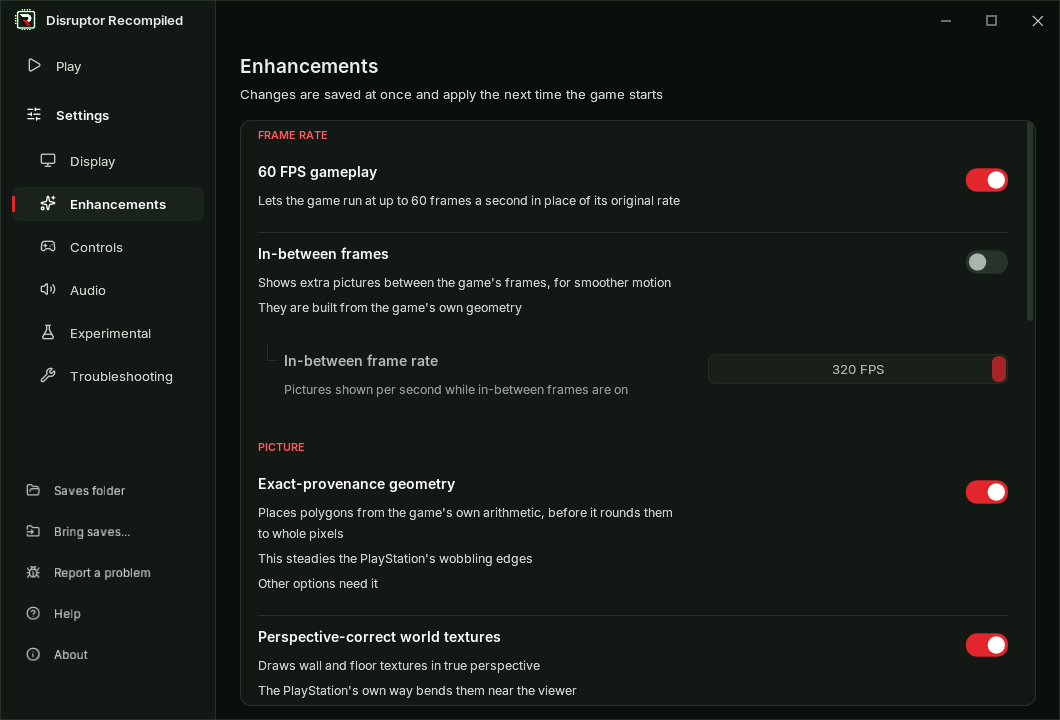
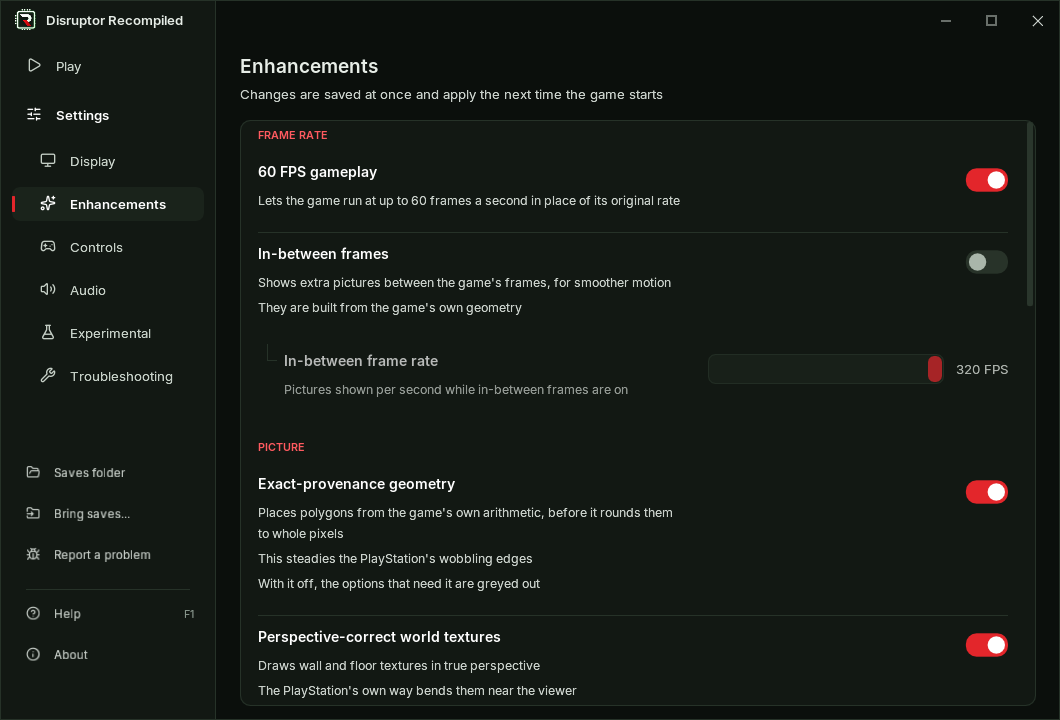
docs: add the 0.7.0 changelog, retake the README pictures and say the campaign plays through

diff --git a/docs/STATUS.md b/docs/STATUS.md
@@ -1,13 +1,13 @@
 # Project status
 
-Last verified: **16 October 2026**. The project is in development; full campaign
-validation is incomplete.
+Last verified: **16 October 2026**. The project is in development. The whole
+campaign can be played through.
 
 | Area | Current state |
 | --- | --- |
 | Platform and disc | Windows x64 and Linux x64 (an AppImage for glibc 2.35 and newer); Disruptor USA, SLUS-00224 only. On Linux the build and its tests pass. The AppImage's launcher imports the disc and starts the game, tested under WSLg on Ubuntu 22.04 up to the save-name screen. A level has not been played there yet. |
 | Gameplay | Boot, menus, FMVs, audio, and the first mission have been exercised on Windows. 60 FPS gameplay is on at first. Doors, a ridden lift, enemies and shots move on every frame under it. |
-| Rendering | OpenGL supports 1x–8x resolution and widescreen up to 32:9, with 4x and 4:3 at first. Exact geometry, perspective textures, gap filling, a depth-sorted world and a smooth distance fade are on at first. Ambient occlusion and anti-aliasing (MSAA / SSAA) are optional. Movies show all 320 columns. Minor edge gaps and localized texture wobble can remain. |
+| Rendering | OpenGL supports 1x–8x resolution and widescreen up to 32:9, with 4x and 4:3 at first. Exact geometry, perspective textures, gap filling, a depth-sorted world and a smooth distance fade are on at first. Ambient occlusion and anti-aliasing (MSAA / SSAA) are optional. Movies show all 320 columns, cleaned of their blocks and scaled smoothly under Movie filter (OpenGL, Vulkan scales them bilinear). Minor edge gaps and localized texture wobble can remain. |
 | Controls | Modern or Classic controls, smooth mouse turning (on at first), a gamepad beside the keyboard, keys and gamepad buttons rebound in the launcher, and keyboard save naming. Vertical look and weapon aim remain experimental. |
 | Settings | One settings table for the launcher (Display, Enhancements, Controls, Audio, Experimental, Troubleshooting) and the in-game menu (Display, Enhancements, Controls, Experimental, Language, System, Debug, Cheats). Each launcher settings page except Troubleshooting resets on its own. |
 | Interpolation and diagnostics | In-between frames start off. The Debug tab offers diagnostic views and screen recording; Ctrl+F12 records replay capsules and F12 loads the newest. |
@@ -21,8 +21,7 @@ validation is incomplete.
 
 ## Remaining limits
 
-- Full campaign, later levels, and broad memory-card regression coverage remain
-  unverified.
+- Broad memory-card regression coverage remains unverified.
 - The source build requires local generation from the verified game executable.
   Prebuilt release users only need their supported BIN/CUE disc image.
 - 60 FPS gameplay is on at first. Off, the game keeps the retail cadence of

diff --git a/docs/PLAYING.md b/docs/PLAYING.md
@@ -241,7 +241,8 @@ Controls page and the game's Controls tab name the one connected.
 
 - In the launcher, under **Settings**: the pages **Display**,
   **Enhancements**, **Controls**, **Audio**, **Experimental** and
-  **Troubleshooting**.
+  **Troubleshooting**. **Controls** has four tabs: **Keys**, **Weapons**,
+  **Mouse** and **Gamepad**.
 - In the game, with Backquote: tabs of the same names. **Detailed logging**
   is on **Debug**. Keys and gamepad buttons are changed in the launcher
   only.
@@ -279,6 +280,7 @@ The page is in four groups, in the launcher and in the game alike.
 | Picture | **Exact-provenance geometry**, **Perspective-correct world textures**, **Gap filling**, **Smooth distance fade**, **Depth-sorted world** | On |
 | Picture | **Fog shape** and **Draw distance** | Original |
 | Shading | **Ambient occlusion**, its reach and strength | Off |
+| Movies | **Movie filter** | Smooth |
 | Startup | **Skip the logos and the title movie** | Off |
 
 - In-between frames, Ambient occlusion and the other Picture settings but
@@ -288,11 +290,15 @@ The page is in four groups, in the launcher and in the game alike.
   where the game steps through twelve shades. Distant walls and floors fade in
   instead of appearing in blocks.
 - **Fog shape** under it offers only the game's own fog, Original, in this
-  release. **Draw distance** offers Original and 1.25x, a quarter further. The
-  other shapes and longer distances come in a later release.
+  release. The other shapes come in a later release. **Draw distance** offers
+  Original and 1.25x, a quarter further.
 - **Depth-sorted world** draws world polygons by their depth where the game's
   own order puts a far one over a near one.
 - **Ambient occlusion** shades corners and the floor under things.
+- **Movie filter** sets how the game's movies are drawn at the size of your
+  screen. Smooth takes away the square blocks the PlayStation's video
+  compression leaves and the grain in flat areas. Original shows every pixel
+  as a square, as before.
 - **Skip the logos and the title movie** skips only the boot intro. The other
   movies play. Escape skips the logo or movie on screen while the settings
   menu is closed.
@@ -540,6 +546,5 @@ describe the replay tool and its limits.
 - **Other problems:** see [Reporting a problem](#reporting-a-problem). Do not
   attach your game image, game assets or BIOS files.
 
-This is an early version. The first mission and the training-level path have
-been tested, the 8x / 32:9 corruption fix included. The whole campaign is not
-covered yet, and small geometry or texture faults can remain.
+This is an early version. The whole campaign can be played through. Small
+geometry or texture faults can remain.

diff --git a/README.md b/README.md
@@ -53,7 +53,7 @@
       Weapon and psionic keys, mouse, gamepad
     </td>
     <td valign="top">
-      <img src="docs/images/keys.png" alt="The key and gamepad tables" width="100%"><br>
+      <img src="docs/images/keys.png" alt="The key table" width="100%"><br>
       <b>Keys and buttons</b><br>
       Click an action, press the new key
     </td>
@@ -67,6 +67,7 @@
 | **Picture** | Internal resolution scale | 4x | Up to 8x the original resolution |
 | | Aspect ratio | 4:3 | 16:9, 21:9, 32:9 or the window's shape |
 | | Anti-aliasing (MSAA / SSAA) | Off | Smoother edges, experimental |
+| | Movie filter | Smooth | Movies drawn smoothly at your screen's size, without their square blocks |
 | **Motion** | 60 FPS gameplay | On | The game runs at up to 60 FPS instead of 30 |
 | | In-between frames | Off | Adds frames for smoother motion, up to 320 FPS |
 | | Smooth mouse turning | On | The view turns between the game's 256 heading steps |
@@ -75,7 +76,7 @@
 | | Gap filling | On | Closes hairline gaps between polygons |
 | | Depth-sorted world | On | Draws a near polygon over a far one where the game's own order gets it wrong |
 | | Smooth distance fade | On | Walls fade evenly instead of in twelve steps, distant ones fade in instead of appearing in blocks |
-| | Draw distance | Original | Longer distances come in a later release |
+| | Draw distance | Original | 1.25x draws the world a quarter further |
 | | Ambient occlusion | Off | Shaded corners and floors under things |
 | **Controls** | Control scheme | Modern | WASD and the mouse, or the original keys |
 | | Weapon and psionic keys | Off | Two keys a weapon or power, 1 to 9 and 0 at first |

diff --git a/CHANGELOG.md b/CHANGELOG.md
@@ -2,6 +2,31 @@
 
 What changed in each release. The launcher shows the section of its own version on its home page.
 
+## v0.7.0
+
+Released on 2026-10-22
+
+### Changes
+
+- Movies: drawn smoothly by the new Movie filter at first, Original keeps every pixel square
+- Capsules: those of 0.6.0 load, but the game leaves their recording at once
+
+### Enhancements
+
+- Movie filter: Original or Smooth on the Enhancements page, Smooth takes away the blocks and grain
+- Launcher Controls: four tabs, Keys, Weapons, Mouse and Gamepad
+- Launcher sliders: the value stands beside the track
+- Launcher paths: a long folder path is shortened in the middle
+- Launcher fonts: Japanese, Chinese and Korean folder names show
+- Detailed logging: the pictures shown and the longest gap between them
+
+### Bug fixes
+
+- Mars: pickups no longer turn into pink or cyan squares after the second part loads (#49)
+- Prison: windows and gates no longer solid green up close with Smooth distance fade (#49)
+- Walls: no light cracks along polygon edges in widescreen, with Smooth distance fade or a longer draw distance
+- Launcher: no cut text in its smallest window
+
 ## v0.6.0
 
 Released on 2026-10-22
